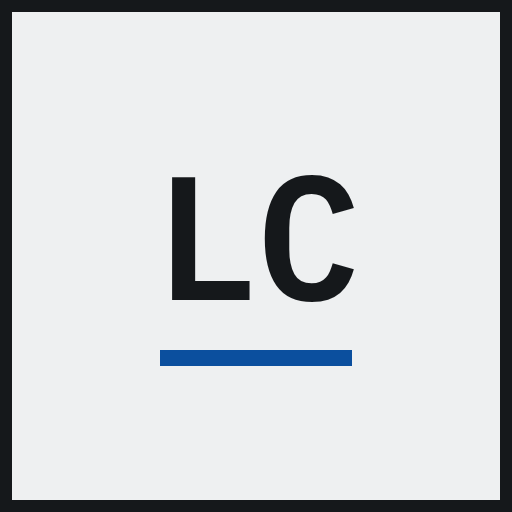
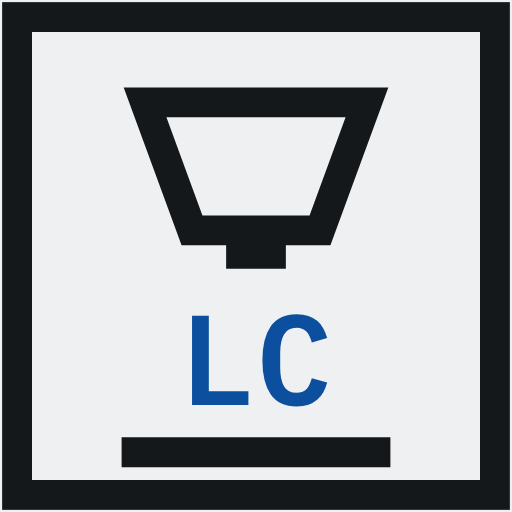
Donne une marque graphique au logotype
La refonte avait laissé le site sans pictogramme, le concept de couches
empilées étant précisément ce que la partie adverse invoquait. La nouvelle
marque part d'ailleurs : une buse déposant le monogramme sur le plateau,
dans le cadre estampé qui servait déjà d'icône.

Deux sources SVG plutôt qu'une image : la marque complète pour l'en-tête
et les partages, les lettres seules pour le favicon, où buse et monogramme
dans un même carré ne survivent pas à la réduction. L'en-tête rend le SVG
en ligne : net à toute taille, sans requête supplémentaire, et modifiable
dans le dépôt — ce que le premier logo, livré en PNG, ne permettait pas.

Claude-Session: https://claude.ai/code/session_015CMd9wULHgvptp7V71x8TH

diff --git a/components/Header.tsx b/components/Header.tsx
@@ -13,9 +13,30 @@ export function Header() {
   return (
     <header className="sticky top-0 z-40 border-b border-border-fort bg-bg/95 backdrop-blur">
       <div className="conteneur flex h-14 items-center justify-between gap-6">
-        {/* Logotype purement typographique : la chasse fixe et le filet
-            disent le registre technique sans pictogramme. */}
-        <Link href="/" className="flex items-baseline gap-2 font-mono">
+        {/* Marque en ligne plutôt qu'en fichier : nette à toute taille, sans
+            requête supplémentaire. La source reste design/marque.svg. */}
+        <Link href="/" className="flex items-center gap-2.5 font-mono">
+          <svg
+            viewBox="0 0 120 120"
+            aria-hidden="true"
+            className="size-9 shrink-0"
+          >
+            <rect x="4" y="4" width="112" height="112" fill="#eef0f1" stroke="#15181b" strokeWidth="7" />
+            <path d="M34 24h52l-11 30H45z" fill="none" stroke="#15181b" strokeWidth="7" strokeLinejoin="miter" />
+            <path d="M53 54h14v9H53z" fill="#15181b" />
+            <text
+              x="60"
+              y="95"
+              fontFamily="var(--font-plex-mono), monospace"
+              fontSize="30"
+              fontWeight="600"
+              fill="#0b4f9e"
+              textAnchor="middle"
+            >
+              LC
+            </text>
+            <path d="M32 106h56" stroke="#15181b" strokeWidth="7" strokeLinecap="square" />
+          </svg>
           <span className="text-base font-semibold tracking-tight">{site.nom}</span>
           <span className="hidden text-[0.6875rem] tracking-[0.18em] text-muted uppercase sm:inline">
             impression 3D

diff --git a/README.md b/README.md
@@ -336,6 +336,12 @@ Variante light mode : blanc cassé `#f8f7f5`, texte `#1a1a1a`, accent identique.
 Typo : `IBM Plex Sans` (texte et titres) + `IBM Plex Mono` (étiquettes, chiffres, tableaux). Google Fonts.
 Registre documentaire : fond clair unique, grille apparente, angles francs, pas de thème sombre.
 
+Marque : `design/marque.svg` (complète : en-tête, partages, documents) et
+`design/marque-tampon.svg` (lettres seules, favicon — buse et monogramme
+dans un même carré ne survivent pas sous 32 px). L'en-tête rend le SVG en
+ligne dans `components/Header.tsx` ; les PNG dérivés se régénèrent depuis
+ces deux sources.
+
 Composants à construire avec Tailwind, pas de dépendance UI externe lourde. Radix UI primitives si besoin d'accessibilité (dialog, select, etc.).
 
 ---
